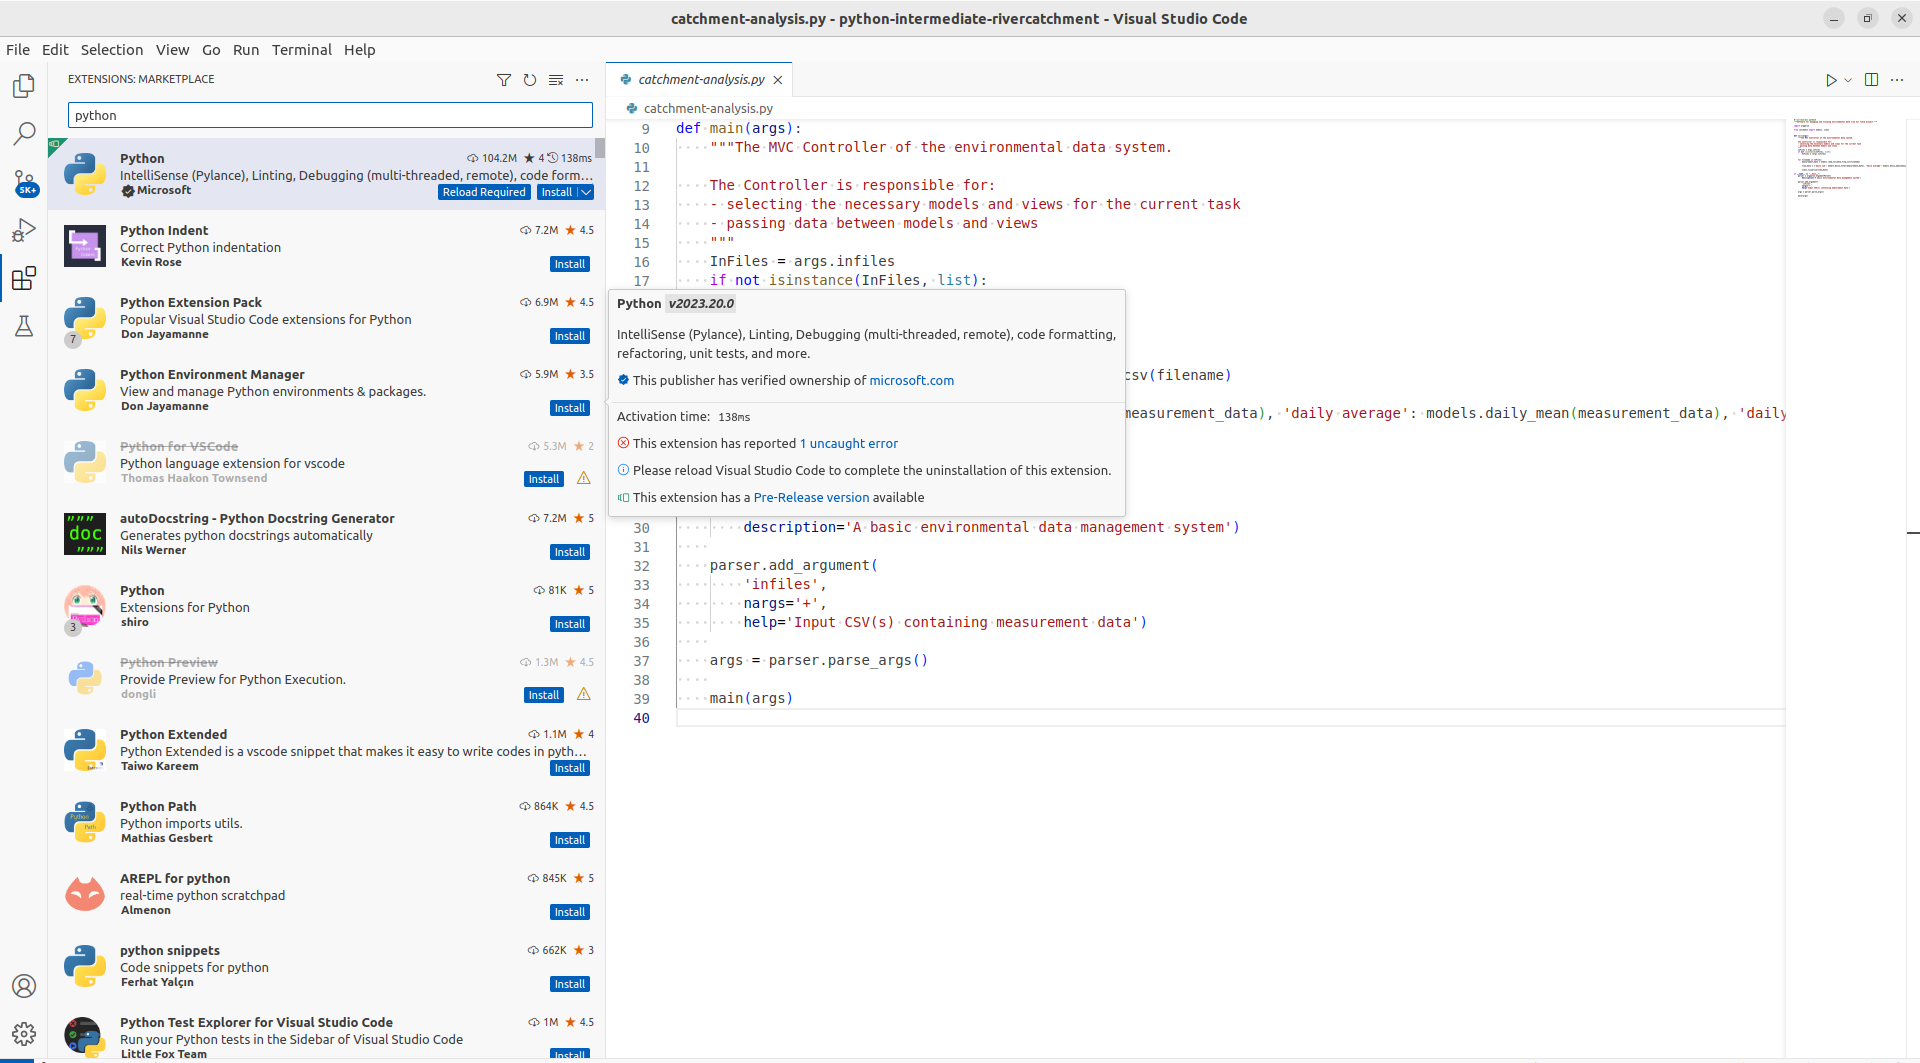
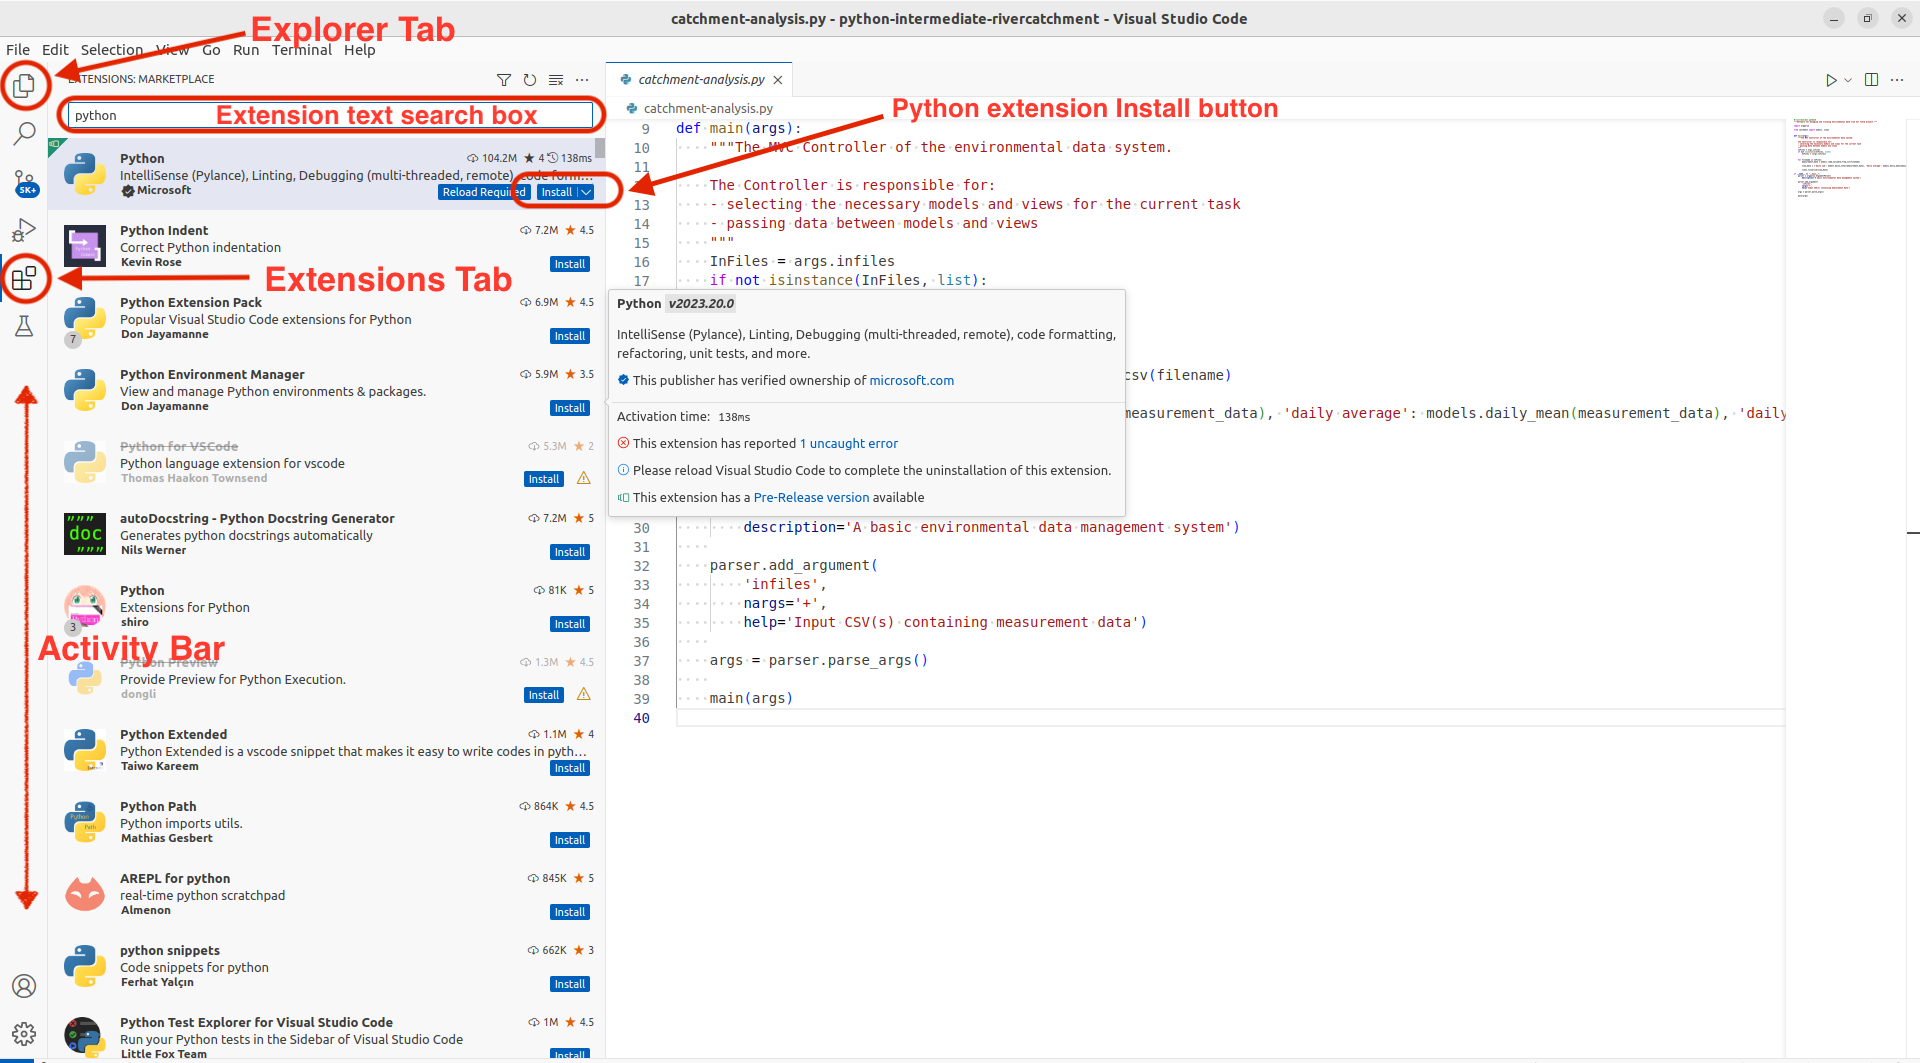
annotate VS Code extensions graphic

diff --git a/episodes/13-ides.md b/episodes/13-ides.md
@@ -98,12 +98,14 @@ If VS Code asks you: `Do you trust the authors of the files in this folder?`,
 select `Yes, I trust the authors`.
 
 On the left side of the VS Code interface is the 'Activity Bar', which contains several tabs.
-The top (default) tab is the `Explorer` view.
+The top (default) tab is the `Explorer` view,
+and is represented by an icon of a couple of sheets of paper.
 This opens a project/file navigator window which can be used to traverse
 and select the files (and any subdirectories) within the working directory,
 and selected files are opened in an editor window on the right.
-The bottom tab on that panel is for adding new `Extensions` to VS Code.
-We will add the Python extension for VS Code.
+Further down the Activity Bar is the `Extensions` Tab,
+represented by four squares, the top-right square not yet connected to the others.
+We will use this to add the Python extension for VS Code.
 Click on the `Extensions` tab and, in the search text box,
 type Python. Select the `Python` extension, as shown in the following figure,
 and click the blue `install` button.
